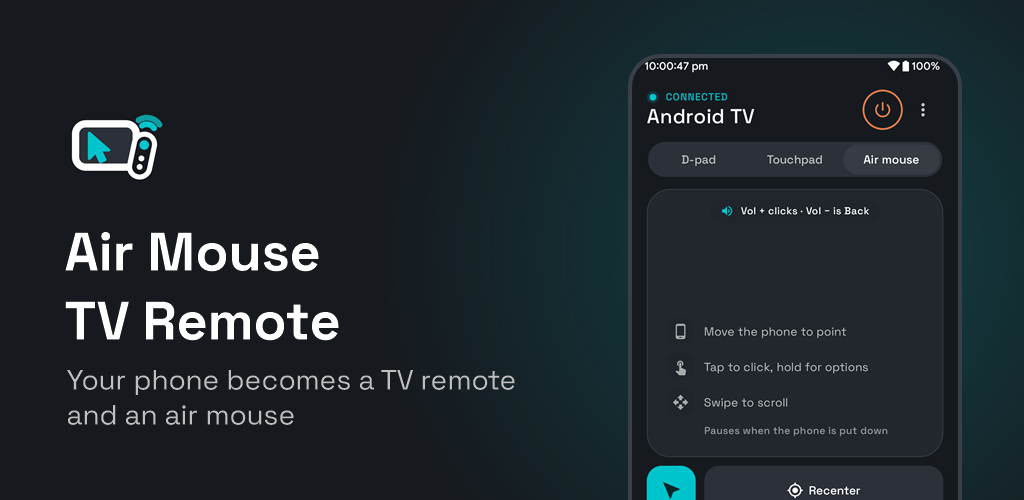
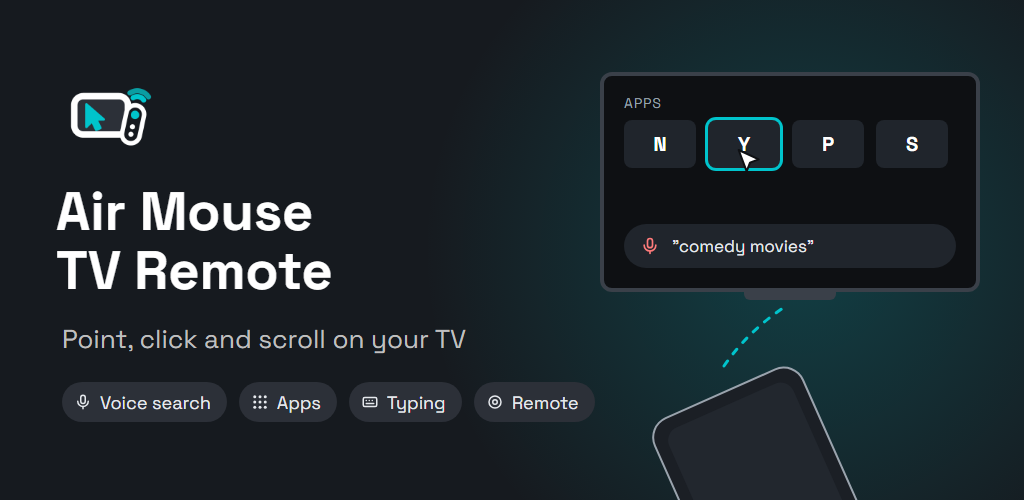
Release 3.0 with voice search and the Apps key

diff --git a/README.md b/README.md
@@ -1,6 +1,6 @@
 <div align="center">
 
-<img src="docs/store/feature-graphic.png" alt="Air Mouse TV Remote: your phone becomes a TV remote and an air mouse" width="100%" />
+<img src="docs/store/feature-graphic.png" alt="Air Mouse TV Remote: point, click and scroll on your TV, with voice search, apps, typing and a remote" width="100%" />
 
 **Turn your phone into a remote and air mouse for any Android TV / Google TV: no pairing hardware, no cloud, just your Wi-Fi.**
 
@@ -10,7 +10,7 @@
 ![Hilt](https://img.shields.io/badge/DI-Hilt-2C8EBB)
 [![CI](https://github.com/PrasoonDhaneshwar/AirMouseTVRemote/actions/workflows/ci.yml/badge.svg)](https://github.com/PrasoonDhaneshwar/AirMouseTVRemote/actions/workflows/ci.yml)
 
-[**⬇ Download the APK**](https://github.com/PrasoonDhaneshwar/AirMouseTVRemote/releases/download/2.0/AirMouseTVRemote-v2.0.apk)
+[**⬇ Download the APK**](https://github.com/PrasoonDhaneshwar/AirMouseTVRemote/releases/download/3.0/AirMouseTVRemote-v3.0.apk)
 
 </div>
 
@@ -20,18 +20,20 @@
 
 - **Finds your TV automatically.** mDNS discovery, a scan of the local network for networks that block it, and an HTTP name lookup for TVs that don't advertise one. You can also add a TV by its IP address, and the last TV is remembered so the app reconnects on launch.
 - **Pairs like the official app.** Type the 6-character code shown on the TV once (digits and capital letters on one keyboard) and it connects by itself as soon as the last character is in. The app remembers the TV's certificate and refuses a different device answering at the same address.
-- **Full remote on one screen.** A big D-pad or a touchpad, OK, Back, Home, volume, mute, power and media controls, with no scrolling. Keys answer your thumb with a tick, hold one for a long press, and the phone's own volume buttons change the TV's volume.
+- **Full remote on one screen.** A big D-pad or a touchpad, OK, Back, Home, Apps, volume, mute, power and media controls, with no scrolling. Keys answer your thumb with a tick, hold one for a long press, and the phone's own volume buttons change the TV's volume.
+- **Voice search.** Hold the mic key and speak, and the TV's Google Assistant shows the results, like the mic on the TV's own remote. Your voice goes only to the TV. On TVs without voice for remotes, the phone's speech to text types into the TV's search box instead.
+- **Your TV's apps.** The Apps key lists the apps you've used on the TV, newest first, plus popular ones like Netflix, YouTube and Prime Video, and opens them with a tap.
 - **Air mouse.** Point the phone at the TV to move a real pointer, tap to click and swipe to scroll. It travels over Bluetooth, Recenter brings the pointer back to the middle, and the volume buttons can click and go Back.
 - **Type on the TV.** When a TV search box asks for text, a sheet opens above the phone keyboard and types straight into it. It follows what the TV really holds and shows whether your text has reached the TV.
-- **YouTube search.** YouTube's own keyboard can't be typed into from a phone, so a button opens the results for your search on the TV.
+- **YouTube search.** YouTube's own keyboard can't be typed into from a phone, so while YouTube is on screen the keyboard key turns into YouTube search and opens the results on the TV.
 - **Honest connection state.** The UI reflects whether the TV is really reachable, and reconnects when the network comes back.
-- **Accessible and small.** The keys work with TalkBack, and the release APK is about 1.7 MB.
+- **Accessible and small.** The keys work with TalkBack, and the release APK is about 1.8 MB.
 
 ## 📱 Screenshots
 
-| Air mouse | Remote | Touchpad | Typing | Finding TVs |
-|:---:|:---:|:---:|:---:|:---:|
-| <img src="docs/store/screenshot-01-air-mouse.png" width="150" alt="Air mouse pad" /> | <img src="docs/store/screenshot-02-remote.png" width="150" alt="D-pad remote" /> | <img src="docs/store/screenshot-03-touchpad.png" width="150" alt="Touchpad" /> | <img src="docs/store/screenshot-04-typing.png" width="150" alt="Typing into a TV search box" /> | <img src="docs/store/screenshot-05-discovery.png" width="150" alt="TV list" /> |
+| Voice search | Air mouse | Remote | Apps | Typing | Finding TVs |
+|:---:|:---:|:---:|:---:|:---:|:---:|
+| <img src="docs/store/screenshot-01-voice-search.png" width="130" alt="Holding the mic key to ask the TV" /> | <img src="docs/store/screenshot-02-air-mouse.png" width="130" alt="Air mouse pad" /> | <img src="docs/store/screenshot-03-remote.png" width="130" alt="D-pad remote" /> | <img src="docs/store/screenshot-04-apps.png" width="130" alt="The TV's recent and popular apps" /> | <img src="docs/store/screenshot-05-typing.png" width="130" alt="Typing into a TV search box" /> | <img src="docs/store/screenshot-06-discovery.png" width="130" alt="TV list" /> |
 
 ## 🎬 See it in action
 
@@ -39,14 +41,18 @@
 
 <img src="docs/gifs/air-mouse.gif" width="780" alt="Moving the phone moves a pointer across the TV home screen" />
 
-| Find & pair | Navigate | Type on the TV | Switch TV |
-|:---:|:---:|:---:|:---:|
-| <img src="docs/gifs/pairing.gif" width="190" /> | <img src="docs/gifs/remote.gif" width="190" /> | <img src="docs/gifs/text-entry.gif" width="190" /> | <img src="docs/gifs/reconnect.gif" width="190" /> |
+**Voice search:** hold the mic key, say what you want to watch, and the TV's assistant shows the results.
+
+<img src="docs/gifs/voice-search.gif" width="780" alt="Holding the mic key on the phone while the TV's Google Assistant searches for comedy movies" />
+
+| Find & pair | Navigate | Open apps | Type on the TV | Switch TV |
+|:---:|:---:|:---:|:---:|:---:|
+| <img src="docs/gifs/pairing.gif" width="160" alt="Finding the TV and typing the pairing code" /> | <img src="docs/gifs/remote.gif" width="160" alt="D-pad, long press and touchpad" /> | <img src="docs/gifs/apps.gif" width="160" alt="Opening YouTube and Netflix from the Apps sheet" /> | <img src="docs/gifs/text-entry.gif" width="160" alt="Typing a search that reaches the TV" /> | <img src="docs/gifs/reconnect.gif" width="160" alt="Switching back to a paired TV without a code" /> |
 
 ## 👇 Get started
 
 1. Put your phone and TV on the **same Wi-Fi network**.
-2. [Download the APK](https://github.com/PrasoonDhaneshwar/AirMouseTVRemote/releases/download/2.0/AirMouseTVRemote-v2.0.apk) and install it.
+2. [Download the APK](https://github.com/PrasoonDhaneshwar/AirMouseTVRemote/releases/download/3.0/AirMouseTVRemote-v3.0.apk) and install it.
 3. Open the app and pick your TV from the list.
 4. Type the code shown on the TV screen. It connects as soon as all six characters are in.
 5. Start navigating.

diff --git a/docs/store/listing.md b/docs/store/listing.md
@@ -12,13 +12,19 @@ Air Mouse TV Remote
 ## Short description
 
 ```
-Control Android TV from your phone: remote, touchpad, typing and an air mouse
+Control Android TV from your phone: voice search, apps, typing and an air mouse
 ```
 
 ## Full description
 
 ```
 Turn your phone into a remote for Android TV and Google TV. It works over your home Wi-Fi with the same pairing as Google's own remote, so there's nothing to install on the TV.
+
+VOICE SEARCH
+Hold the mic key and say what you want to watch. Your TV's Google Assistant shows the results, just like the mic on the TV's own remote. Your voice goes only to your TV and isn't recorded or kept by the app. Slide off the key to cancel. With TalkBack, tap to start and tap again to stop.
+
+YOUR TV'S APPS
+The Apps key opens the apps you use on the TV, newest first, plus popular ones like Netflix, YouTube and Prime Video. Tap one and it opens on the TV. Long press a recent app to rename or remove it.
 
 AIR MOUSE
 Point your phone at the TV and a pointer follows. Tap the pad to click and swipe to scroll. It's made for apps and browsers that don't work well with arrow keys. The phone connects to the TV as a Bluetooth mouse.
@@ -30,12 +36,12 @@ Point your phone at the TV and a pointer follows. Tap the pad to click and swipe
 
 A FULL REMOTE ON ONE SCREEN
 • A big D-pad with OK, or a touchpad if you prefer swiping
-• Back, Home, power, mute, volume and media keys, with no scrolling
+• Back, Home, Apps, power, mute, volume and media keys, with no scrolling
 • Hold any key to repeat it or for a long press
 • The phone's volume buttons change the TV's volume
 
 TYPE WITH YOUR PHONE'S KEYBOARD
-When a search box on the TV asks for text, a typing sheet opens on your phone. It shows what the TV actually received, so you know your text got there. For YouTube, a button opens the results for your search on the TV.
+When a search box on the TV asks for text, a typing sheet opens on your phone. It shows what the TV actually received, so you know your text got there. While YouTube is on screen, the keyboard key turns into YouTube search and opens the results on the TV.
 
 FINDS YOUR TV BY ITSELF
 The app looks for TVs on your Wi-Fi, including networks that hide them. You can also add a TV by its IP address. Pair once with the code shown on the TV, and the app reconnects to the last TV when you open it.
@@ -46,6 +52,7 @@ No account, no ads, no analytics. The app talks only to the TV you pick, on your
 REQUIREMENTS
 • An Android TV or Google TV on the same Wi-Fi network as your phone
 • Android 7.0 or later for the remote
+• For voice search: a TV that offers it to remotes (the app checks) and the microphone permission. On TVs without it, the mic key uses your phone's speech to text and types what you say into the TV's search box.
 • For the air mouse: Android 9 or later, Bluetooth, and a phone whose maker left the Bluetooth mouse feature turned on. The app checks this and only offers the air mouse on phones that can do it. A gyroscope is needed for pointing. Without one, the pad works as a touchpad.
 
 Air Mouse TV Remote is an independent app and is not affiliated with Google. Android TV and Google TV are trademarks of Google LLC.
@@ -55,9 +62,10 @@ Air Mouse TV Remote is an independent app and is not affiliated with Google. And
 
 | Image | Alt text |
 |---|---|
-| Feature graphic | Air Mouse TV Remote: your phone becomes a TV remote and an air mouse |
-| Screenshot 1 | Air mouse pad: move the phone to point, tap to click, swipe to scroll, with a Recenter button |
-| Screenshot 2 | Remote with a large D-pad, OK, Back, Home, keyboard, media and volume keys |
-| Screenshot 3 | Touchpad mode: swipe to move between items on the TV and tap for OK |
-| Screenshot 4 | Typing sheet over the phone keyboard, with a check showing the text reached the TV |
-| Screenshot 5 | List of TVs found on the Wi-Fi, with an option to add one by IP address |
+| Feature graphic | Air Mouse TV Remote: voice search, apps and an air mouse on your phone |
+| Screenshot 1 | Voice search: holding the mic key, with the live sound level and Release to send |
+| Screenshot 2 | Air mouse pad: move the phone to point, tap to click, swipe to scroll, with a Recenter button |
+| Screenshot 3 | Remote with a D-pad, OK, and Back, Home, Apps, keyboard and mic keys |
+| Screenshot 4 | Apps sheet: recent apps from the TV and popular ones, the app on screen marked ON TV |
+| Screenshot 5 | Typing sheet over the phone keyboard, with a check showing the text reached the TV |
+| Screenshot 6 | List of TVs found on the Wi-Fi, with an option to add one by IP address |

diff --git a/CHANGELOG.md b/CHANGELOG.md
@@ -4,12 +4,29 @@ All notable changes to Air Mouse TV Remote. Versions match the git tags and GitH
 
 ## [Unreleased]
 
+## [3.0] - 2026-11-27
+
+### Added
+- Voice search: hold the new Ask key and speak, and the TV's Google Assistant shows the results,
+  like the mic on the TV's own remote. Your voice goes only to the TV. Slide off the key to cancel;
+  with TalkBack, tap to start and tap again to stop. The microphone permission is asked for behind
+  a sheet that says where the voice goes.
+- On TVs that don't offer voice to remotes, the Ask key uses the phone's speech to text and types
+  what you say into the TV's search box (into YouTube search while YouTube is open).
+- Apps: the new Apps key opens the apps you've used on the TV, newest first, plus popular ones such
+  as Netflix, YouTube and Prime Video. Tap one to open it on the TV. Long press a recent app to
+  rename or remove it. Apps the TV doesn't have open their Play Store page.
+
+### Changed
+- A new key row under the D-pad: Keyboard, a Back · Home · Apps pill, and Ask.
+- While YouTube is on screen, the Keyboard key turns into YouTube search, with a one-time tip.
+
 ## [2.0] - 2026-11-22
 
 ### Added
 - Air mouse: point the phone at the TV and a pointer follows. The phone acts as a Bluetooth mouse,
-  so nothing is installed on the TV. Tap the pad to click, hold a finger on it to freeze the
-  pointer while re-aiming, and scroll with two fingers or the strip at the edge, at the touchpad's
+  so nothing is installed on the TV. Tap the pad to click (the pointer holds still while a finger
+  is on the pad), and scroll with two fingers or the strip at the edge, at the touchpad's
   pace and one direction at a time. Pointing pauses when the phone is put down. While pointing,
   Vol + clicks and Vol − is Back.
 - The TV's pointer stays hidden until you open the air mouse pad, so it doesn't appear while you
@@ -131,7 +148,8 @@ All notable changes to Air Mouse TV Remote. Versions match the git tags and GitH
 - Reconnect, and a connection state that shows whether the TV is really reachable.
 - The "Deep Code" dark theme.
 
-[Unreleased]: https://github.com/PrasoonDhaneshwar/AirMouseTVRemote/compare/2.0...HEAD
+[Unreleased]: https://github.com/PrasoonDhaneshwar/AirMouseTVRemote/compare/3.0...HEAD
+[3.0]: https://github.com/PrasoonDhaneshwar/AirMouseTVRemote/compare/2.0...3.0
 [2.0]: https://github.com/PrasoonDhaneshwar/AirMouseTVRemote/compare/1.4...2.0
 [1.4]: https://github.com/PrasoonDhaneshwar/AirMouseTVRemote/compare/1.3...1.4
 [1.3]: https://github.com/PrasoonDhaneshwar/AirMouseTVRemote/compare/1.2...1.3
